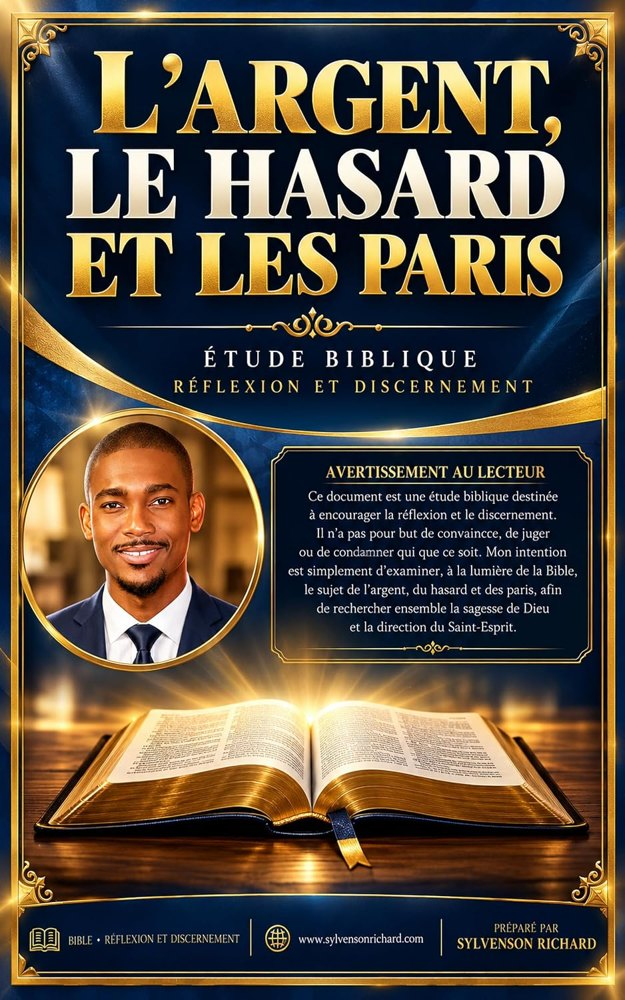
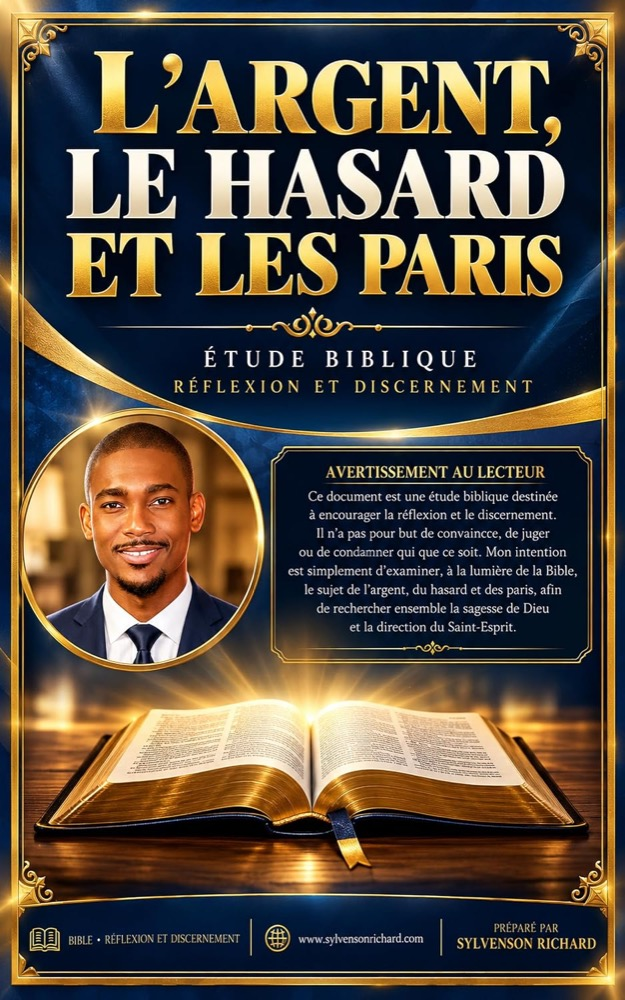
social: add X (@SylvensonR); harden rel on every external link; books sync survives Amazon throttling

diff --git a/index.html b/index.html
@@ -300,7 +300,7 @@
         </div>
         <h4 data-i18n="pf.p1t">Glowy</h4>
         <p data-i18n="pf.p1d">A browser for developers — multi-tab webview, integrated terminal, and chat side-sheets.</p>
-        <a class="pf-cta" href="https://glowy.jrispace.com" target="_blank" rel="noopener">
+        <a class="pf-cta" href="https://glowy.jrispace.com" target="_blank" rel="noopener noreferrer">
           <span data-i18n="pf.visit">Visit</span>
           <svg viewBox="0 0 24 24" aria-hidden="true"><path d="M7 17 17 7"/><path d="M9 7h8v8"/></svg>
         </a>
@@ -312,7 +312,7 @@
         </div>
         <h4 data-i18n="pf.p2t">Equip</h4>
         <p data-i18n="pf.p2d">Project management platform for modern teams, with roles and invite-only onboarding.</p>
-        <a class="pf-cta" href="https://equip.jrispace.com" target="_blank" rel="noopener">
+        <a class="pf-cta" href="https://equip.jrispace.com" target="_blank" rel="noopener noreferrer">
           <span data-i18n="pf.visit">Visit</span>
           <svg viewBox="0 0 24 24" aria-hidden="true"><path d="M7 17 17 7"/><path d="M9 7h8v8"/></svg>
         </a>
@@ -324,7 +324,7 @@
         </div>
         <h4 data-i18n="pf.p3t">Shama</h4>
         <p data-i18n="pf.p3d">A native macOS AI agent — local or cloud models, voice in and out, memory and scheduled jobs.</p>
-        <a class="pf-cta" href="https://shama.jrispace.com" target="_blank" rel="noopener">
+        <a class="pf-cta" href="https://shama.jrispace.com" target="_blank" rel="noopener noreferrer">
           <span data-i18n="pf.visit">Visit</span>
           <svg viewBox="0 0 24 24" aria-hidden="true"><path d="M7 17 17 7"/><path d="M9 7h8v8"/></svg>
         </a>
@@ -336,7 +336,7 @@
         </div>
         <h4 data-i18n="pf.p4t">MonAI</h4>
         <p data-i18n="pf.p4d">An AI assistant that lives inside your web pages and answers visitors in context.</p>
-        <a class="pf-cta" href="https://monai.jrispace.com" target="_blank" rel="noopener">
+        <a class="pf-cta" href="https://monai.jrispace.com" target="_blank" rel="noopener noreferrer">
           <span data-i18n="pf.visit">Visit</span>
           <svg viewBox="0 0 24 24" aria-hidden="true"><path d="M7 17 17 7"/><path d="M9 7h8v8"/></svg>
         </a>
@@ -348,7 +348,7 @@
         </div>
         <h4 data-i18n="pf.p5t">Resume</h4>
         <p data-i18n="pf.p5d">A letter template studio — customise every element of a professional letter with live preview.</p>
-        <a class="pf-cta" href="https://resume.jrispace.com" target="_blank" rel="noopener">
+        <a class="pf-cta" href="https://resume.jrispace.com" target="_blank" rel="noopener noreferrer">
           <span data-i18n="pf.visit">Visit</span>
           <svg viewBox="0 0 24 24" aria-hidden="true"><path d="M7 17 17 7"/><path d="M9 7h8v8"/></svg>
         </a>
@@ -360,7 +360,7 @@
         </div>
         <h4 data-i18n="pf.p6t">LocalProjectsManager</h4>
         <p data-i18n="pf.p6d">A 100% local project manager — your data never leaves your machine.</p>
-        <a class="pf-cta" href="https://localprojects.jrispace.com" target="_blank" rel="noopener">
+        <a class="pf-cta" href="https://localprojects.jrispace.com" target="_blank" rel="noopener noreferrer">
           <span data-i18n="pf.visit">Visit</span>
           <svg viewBox="0 0 24 24" aria-hidden="true"><path d="M7 17 17 7"/><path d="M9 7h8v8"/></svg>
         </a>
@@ -447,22 +447,25 @@
         <div class="social-links">
           <span class="social-label" data-i18n="ct.social">Follow me</span>
           <div class="social-row">
-            <a href="https://do.linkedin.com/in/ing-sylvenson-richard" target="_blank" rel="noopener" class="social-icon" aria-label="LinkedIn">
+            <a href="https://do.linkedin.com/in/ing-sylvenson-richard" target="_blank" rel="noopener noreferrer" class="social-icon" aria-label="LinkedIn">
               <svg viewBox="0 0 24 24" fill="currentColor"><path d="M20.447 20.452h-3.554v-5.569c0-1.328-.027-3.037-1.852-3.037-1.853 0-2.136 1.445-2.136 2.939v5.667H9.351V9h3.414v1.561h.046c.477-.9 1.637-1.85 3.37-1.85 3.601 0 4.267 2.37 4.267 5.455v6.286zM5.337 7.433a2.062 2.062 0 0 1-2.063-2.065 2.064 2.064 0 1 1 2.063 2.065zm1.782 13.019H3.555V9h3.564v11.452zM22.225 0H1.771C.792 0 0 .774 0 1.729v20.542C0 23.227.792 24 1.771 24h20.451C23.2 24 24 23.227 24 22.271V1.729C24 .774 23.2 0 22.222 0h.003z"/></svg>
             </a>
-            <a href="https://facebook.com/SylvensonRichard" target="_blank" rel="noopener" class="social-icon" aria-label="Facebook">
+            <a href="https://facebook.com/SylvensonRichard" target="_blank" rel="noopener noreferrer" class="social-icon" aria-label="Facebook">
               <svg viewBox="0 0 24 24" fill="currentColor"><path d="M24 12.073c0-6.627-5.373-12-12-12s-12 5.373-12 12c0 5.99 4.388 10.954 10.125 11.854v-8.385H7.078v-3.47h3.047V9.43c0-3.007 1.792-4.669 4.533-4.669 1.312 0 2.686.235 2.686.235v2.953H15.83c-1.491 0-1.956.925-1.956 1.874v2.25h3.328l-.532 3.47h-2.796v8.385C19.612 23.027 24 18.062 24 12.073z"/></svg>
             </a>
-            <a href="https://www.youtube.com/richaerly" target="_blank" rel="noopener" class="social-icon" aria-label="YouTube">
+            <a href="https://www.youtube.com/richaerly" target="_blank" rel="noopener noreferrer" class="social-icon" aria-label="YouTube">
               <svg viewBox="0 0 24 24" fill="currentColor"><path d="M23.498 6.186a3.016 3.016 0 0 0-2.122-2.136C19.505 3.545 12 3.545 12 3.545s-7.505 0-9.377.505A3.017 3.017 0 0 0 .502 6.186C0 8.07 0 12 0 12s0 3.93.502 5.814a3.016 3.016 0 0 0 2.122 2.136c1.871.505 9.376.505 9.376.505s7.505 0 9.377-.505a3.015 3.015 0 0 0 2.122-2.136C24 15.93 24 12 24 12s0-3.93-.502-5.814zM9.545 15.568V8.432L15.818 12l-6.273 3.568z"/></svg>
             </a>
-            <a href="https://open.spotify.com/artist/68ZIuMDZmP2zcZzdtB07NY" target="_blank" rel="noopener" class="social-icon" aria-label="Spotify">
+            <a href="https://open.spotify.com/artist/68ZIuMDZmP2zcZzdtB07NY" target="_blank" rel="noopener noreferrer" class="social-icon" aria-label="Spotify">
               <svg viewBox="0 0 24 24" fill="currentColor"><path d="M12 0C5.4 0 0 5.4 0 12s5.4 12 12 12 12-5.4 12-12S18.66 0 12 0zm5.521 17.34c-.24.359-.66.48-1.021.24-2.82-1.74-6.36-2.101-10.561-1.141-.418.122-.779-.179-.899-.539-.12-.421.18-.78.54-.9 4.56-1.021 8.52-.6 11.64 1.32.42.18.479.659.301 1.02zm1.44-3.3c-.301.42-.841.6-1.262.3-3.239-1.98-8.159-2.58-11.939-1.38-.479.12-1.02-.12-1.14-.6-.12-.48.12-1.021.6-1.141C9.6 9.9 15 10.561 18.72 12.84c.361.181.54.78.241 1.2zm.12-3.36C15.24 8.4 8.82 8.16 5.16 9.301c-.6.179-1.2-.181-1.38-.721-.18-.601.18-1.2.72-1.381 4.26-1.26 11.28-1.02 15.721 1.621.539.3.719 1.02.419 1.56-.299.421-1.02.599-1.559.3z"/></svg>
             </a>
-            <a href="https://www.tiktok.com/@sylvensonrichard" target="_blank" rel="noopener" class="social-icon" aria-label="TikTok">
+            <a href="https://www.tiktok.com/@sylvensonrichard" target="_blank" rel="noopener noreferrer" class="social-icon" aria-label="TikTok">
               <svg viewBox="0 0 24 24" fill="currentColor"><path d="M19.59 6.69a4.83 4.83 0 0 1-3.77-4.25V2h-3.45v13.67a2.89 2.89 0 0 1-2.88 2.5 2.89 2.89 0 0 1-2.89-2.89 2.89 2.89 0 0 1 2.89-2.89c.28 0 .54.04.79.1v-3.5a6.37 6.37 0 0 0-.79-.05A6.34 6.34 0 0 0 3.15 15.2a6.34 6.34 0 0 0 6.34 6.34 6.34 6.34 0 0 0 6.34-6.34V8.97a8.28 8.28 0 0 0 4.76 1.5v-3.4a4.85 4.85 0 0 1-1-.38z"/></svg>
             </a>
-            <a href="https://www.instagram.com/jrispace" target="_blank" rel="noopener" class="social-icon" aria-label="Instagram">
+            <a href="https://x.com/SylvensonR" target="_blank" rel="noopener noreferrer" class="social-icon" aria-label="X">
+              <svg viewBox="0 0 24 24" fill="currentColor" aria-hidden="true"><path d="M18.244 2.25h3.308l-7.227 8.26 8.502 11.24H16.17l-5.214-6.817L4.99 21.75H1.68l7.73-8.835L1.254 2.25H8.08l4.713 6.231zm-1.161 17.52h1.833L7.084 4.126H5.117z"/></svg>
+            </a>
+            <a href="https://www.instagram.com/jrispace" target="_blank" rel="noopener noreferrer" class="social-icon" aria-label="Instagram">
               <svg viewBox="0 0 24 24" fill="currentColor"><path d="M12 0C8.74 0 8.333.015 7.053.072 5.775.132 4.905.333 4.14.63c-.789.306-1.459.717-2.126 1.384S.935 3.35.63 4.14C.333 4.905.131 5.775.072 7.053.012 8.333 0 8.74 0 12s.015 3.667.072 4.947c.06 1.277.261 2.148.558 2.913.306.788.717 1.459 1.384 2.126.667.666 1.336 1.079 2.126 1.384.766.296 1.636.499 2.913.558C8.333 23.988 8.74 24 12 24s3.667-.015 4.947-.072c1.277-.06 2.148-.262 2.913-.558.788-.306 1.459-.718 2.126-1.384.666-.667 1.079-1.335 1.384-2.126.296-.765.499-1.636.558-2.913.06-1.28.072-1.687.072-4.947s-.015-3.667-.072-4.947c-.06-1.277-.262-2.149-.558-2.913-.306-.789-.718-1.459-1.384-2.126C21.319 1.347 20.651.935 19.86.63c-.765-.297-1.636-.499-2.913-.558C15.667.012 15.26 0 12 0zm0 2.16c3.203 0 3.585.016 4.85.071 1.17.055 1.805.249 2.227.415.562.217.96.477 1.382.896.419.42.679.819.896 1.381.164.422.36 1.057.413 2.227.057 1.266.07 1.646.07 4.85s-.015 3.585-.074 4.85c-.061 1.17-.256 1.805-.421 2.227-.224.562-.479.96-.899 1.382-.419.419-.824.679-1.38.896-.42.164-1.065.36-2.235.413-1.274.057-1.649.07-4.859.07-3.211 0-3.586-.015-4.859-.074-1.171-.061-1.816-.256-2.236-.421-.569-.224-.96-.479-1.379-.899-.421-.419-.69-.824-.9-1.38-.165-.42-.359-1.065-.42-2.235-.045-1.26-.061-1.649-.061-4.844 0-3.196.016-3.586.061-4.861.061-1.17.255-1.814.42-2.234.21-.57.479-.96.9-1.381.419-.419.81-.689 1.379-.898.42-.166 1.051-.361 2.221-.421 1.275-.045 1.65-.06 4.859-.06l.045.03zm0 3.678a6.162 6.162 0 1 0 0 12.324 6.162 6.162 0 1 0 0-12.324zM12 16c-2.21 0-4-1.79-4-4s1.79-4 4-4 4 1.79 4 4-1.79 4-4 4zm7.846-10.405a1.441 1.441 0 1 1-2.88 0 1.441 1.441 0 0 1 2.88 0z"/></svg>
             </a>
           </div>

diff --git a/scripts/fetch-books.py b/scripts/fetch-books.py
@@ -18,6 +18,7 @@ import re
 import shutil
 import subprocess
 import sys
+import time
 import urllib.parse
 
 ROOT = pathlib.Path(__file__).resolve().parent.parent
@@ -37,12 +38,18 @@ MARKETS = {
 }
 
 
-def get(url: str, lang: str = "en-US") -> str:
-    r = subprocess.run(
-        ["curl", "-s", "-m", "30", "-A", UA, "-H", f"Accept-Language: {lang},en;q=0.8",
-         "-H", "Accept: text/html,application/xhtml+xml", "-L", url],
-        capture_output=True, text=True, errors="ignore")
-    return r.stdout or ""
+def get(url: str, lang: str = "en-US", tries: int = 3, min_bytes: int = 20_000) -> str:
+    """Fetch a page, retrying when Amazon answers with a throttled stub (< 20 KB)."""
+    for attempt in range(tries):
+        r = subprocess.run(
+            ["curl", "-s", "-m", "30", "-A", UA, "-H", f"Accept-Language: {lang},en;q=0.8",
+             "-H", "Accept: text/html,application/xhtml+xml", "-L", url],
+            capture_output=True, text=True, errors="ignore")
+        body = r.stdout or ""
+        if len(body) >= min_bytes:
+            return body
+        time.sleep(1.5 * (attempt + 1))     # throttled (or a genuinely empty page)
+    return ""
 
 
 def plain(fragment: str) -> str:
@@ -56,8 +63,16 @@ def search_asins(author: str, host: str, lang: str) -> list[str]:
     """All ASINs whose byline carries the author's name, across result pages."""
     found: list[str] = []
     for page in range(1, 6):
-        q = urllib.parse.urlencode({"i": "digital-text", "field-author": author, "page": page})
-        src = get(f"https://{host}/s?{q}", lang)
+        # Amazon rotates between these two result shapes; try both before giving up on a page
+        queries = [
+            {"i": "digital-text", "field-author": author, "page": page},
+            {"k": author, "i": "digital-text", "page": page},
+        ]
+        src = ""
+        for q in queries:
+            src = get(f"https://{host}/s?" + urllib.parse.urlencode(q), lang)
+            if src:
+                break
         if not src:
             continue
         hits = [(m.start(), m.group(1)) for m in re.finditer(r'data-asin="(B0[A-Z0-9]{8})"', src)]
@@ -191,7 +206,13 @@ def main() -> int:
     asins = search_asins(args.author, host, lang)
     print(f"found  : {len(asins)} asin(s) → {', '.join(asins) or 'none'}")
     if not asins:
-        print("nothing to write; leaving books.json untouched", file=sys.stderr)
+        # Amazon can throttle a runner (or the author really has no listing yet).
+        # Keep the last good catalogue rather than deleting the section.
+        if OUT.exists():
+            print("warning: no results this run (Amazon throttled or no new titles) — "
+                  f"keeping the existing {OUT.name}", file=sys.stderr)
+            return 0
+        print("no titles found and no existing books.json", file=sys.stderr)
         return 1
 
     books = []
